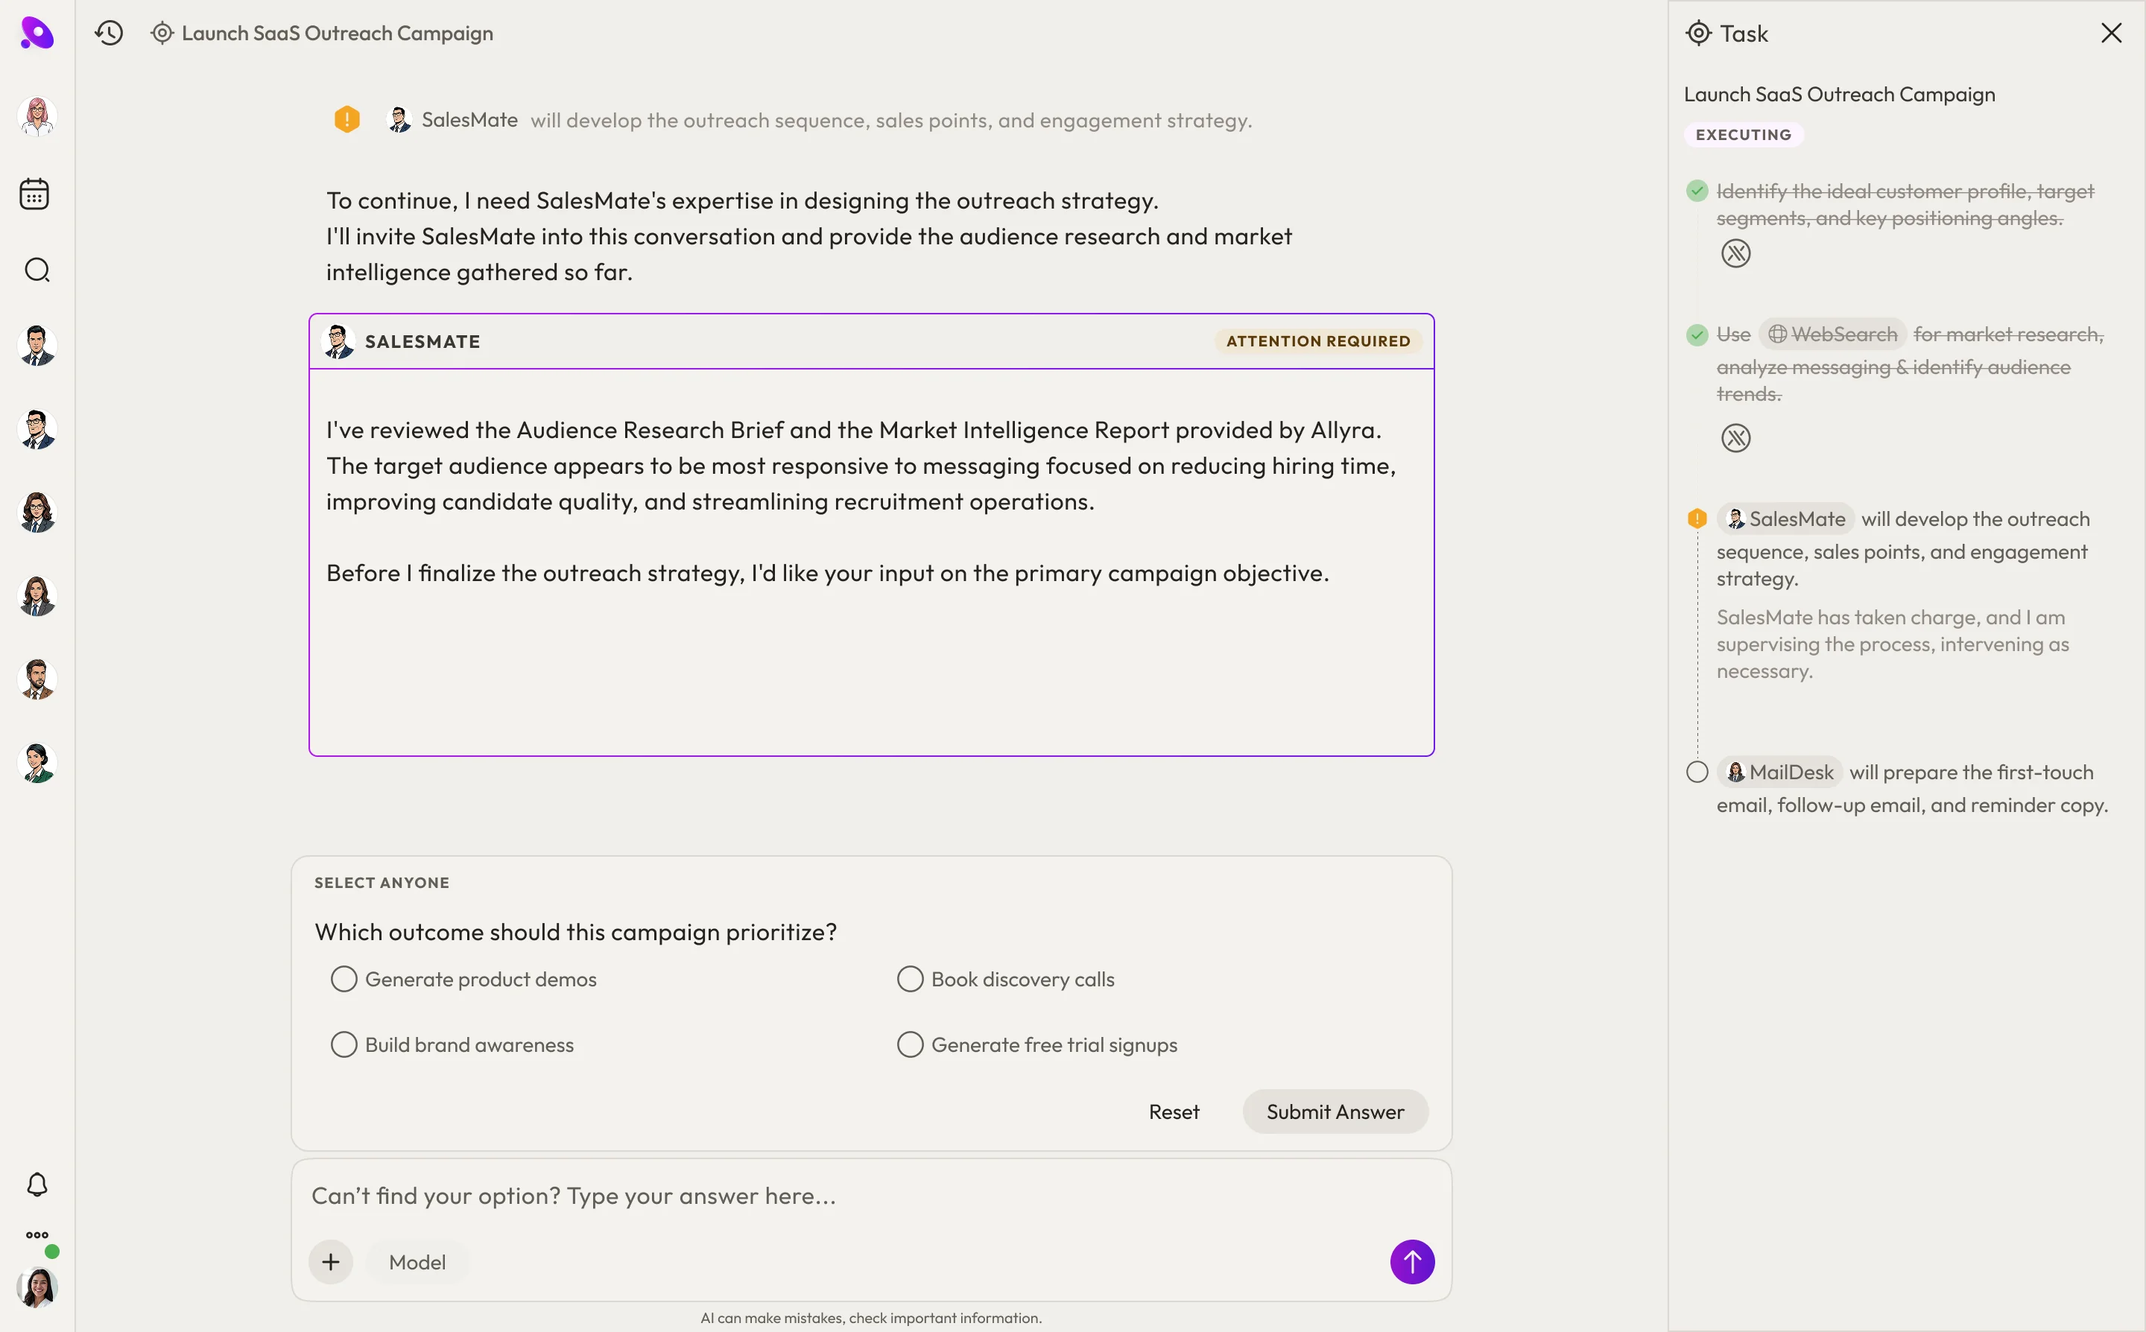
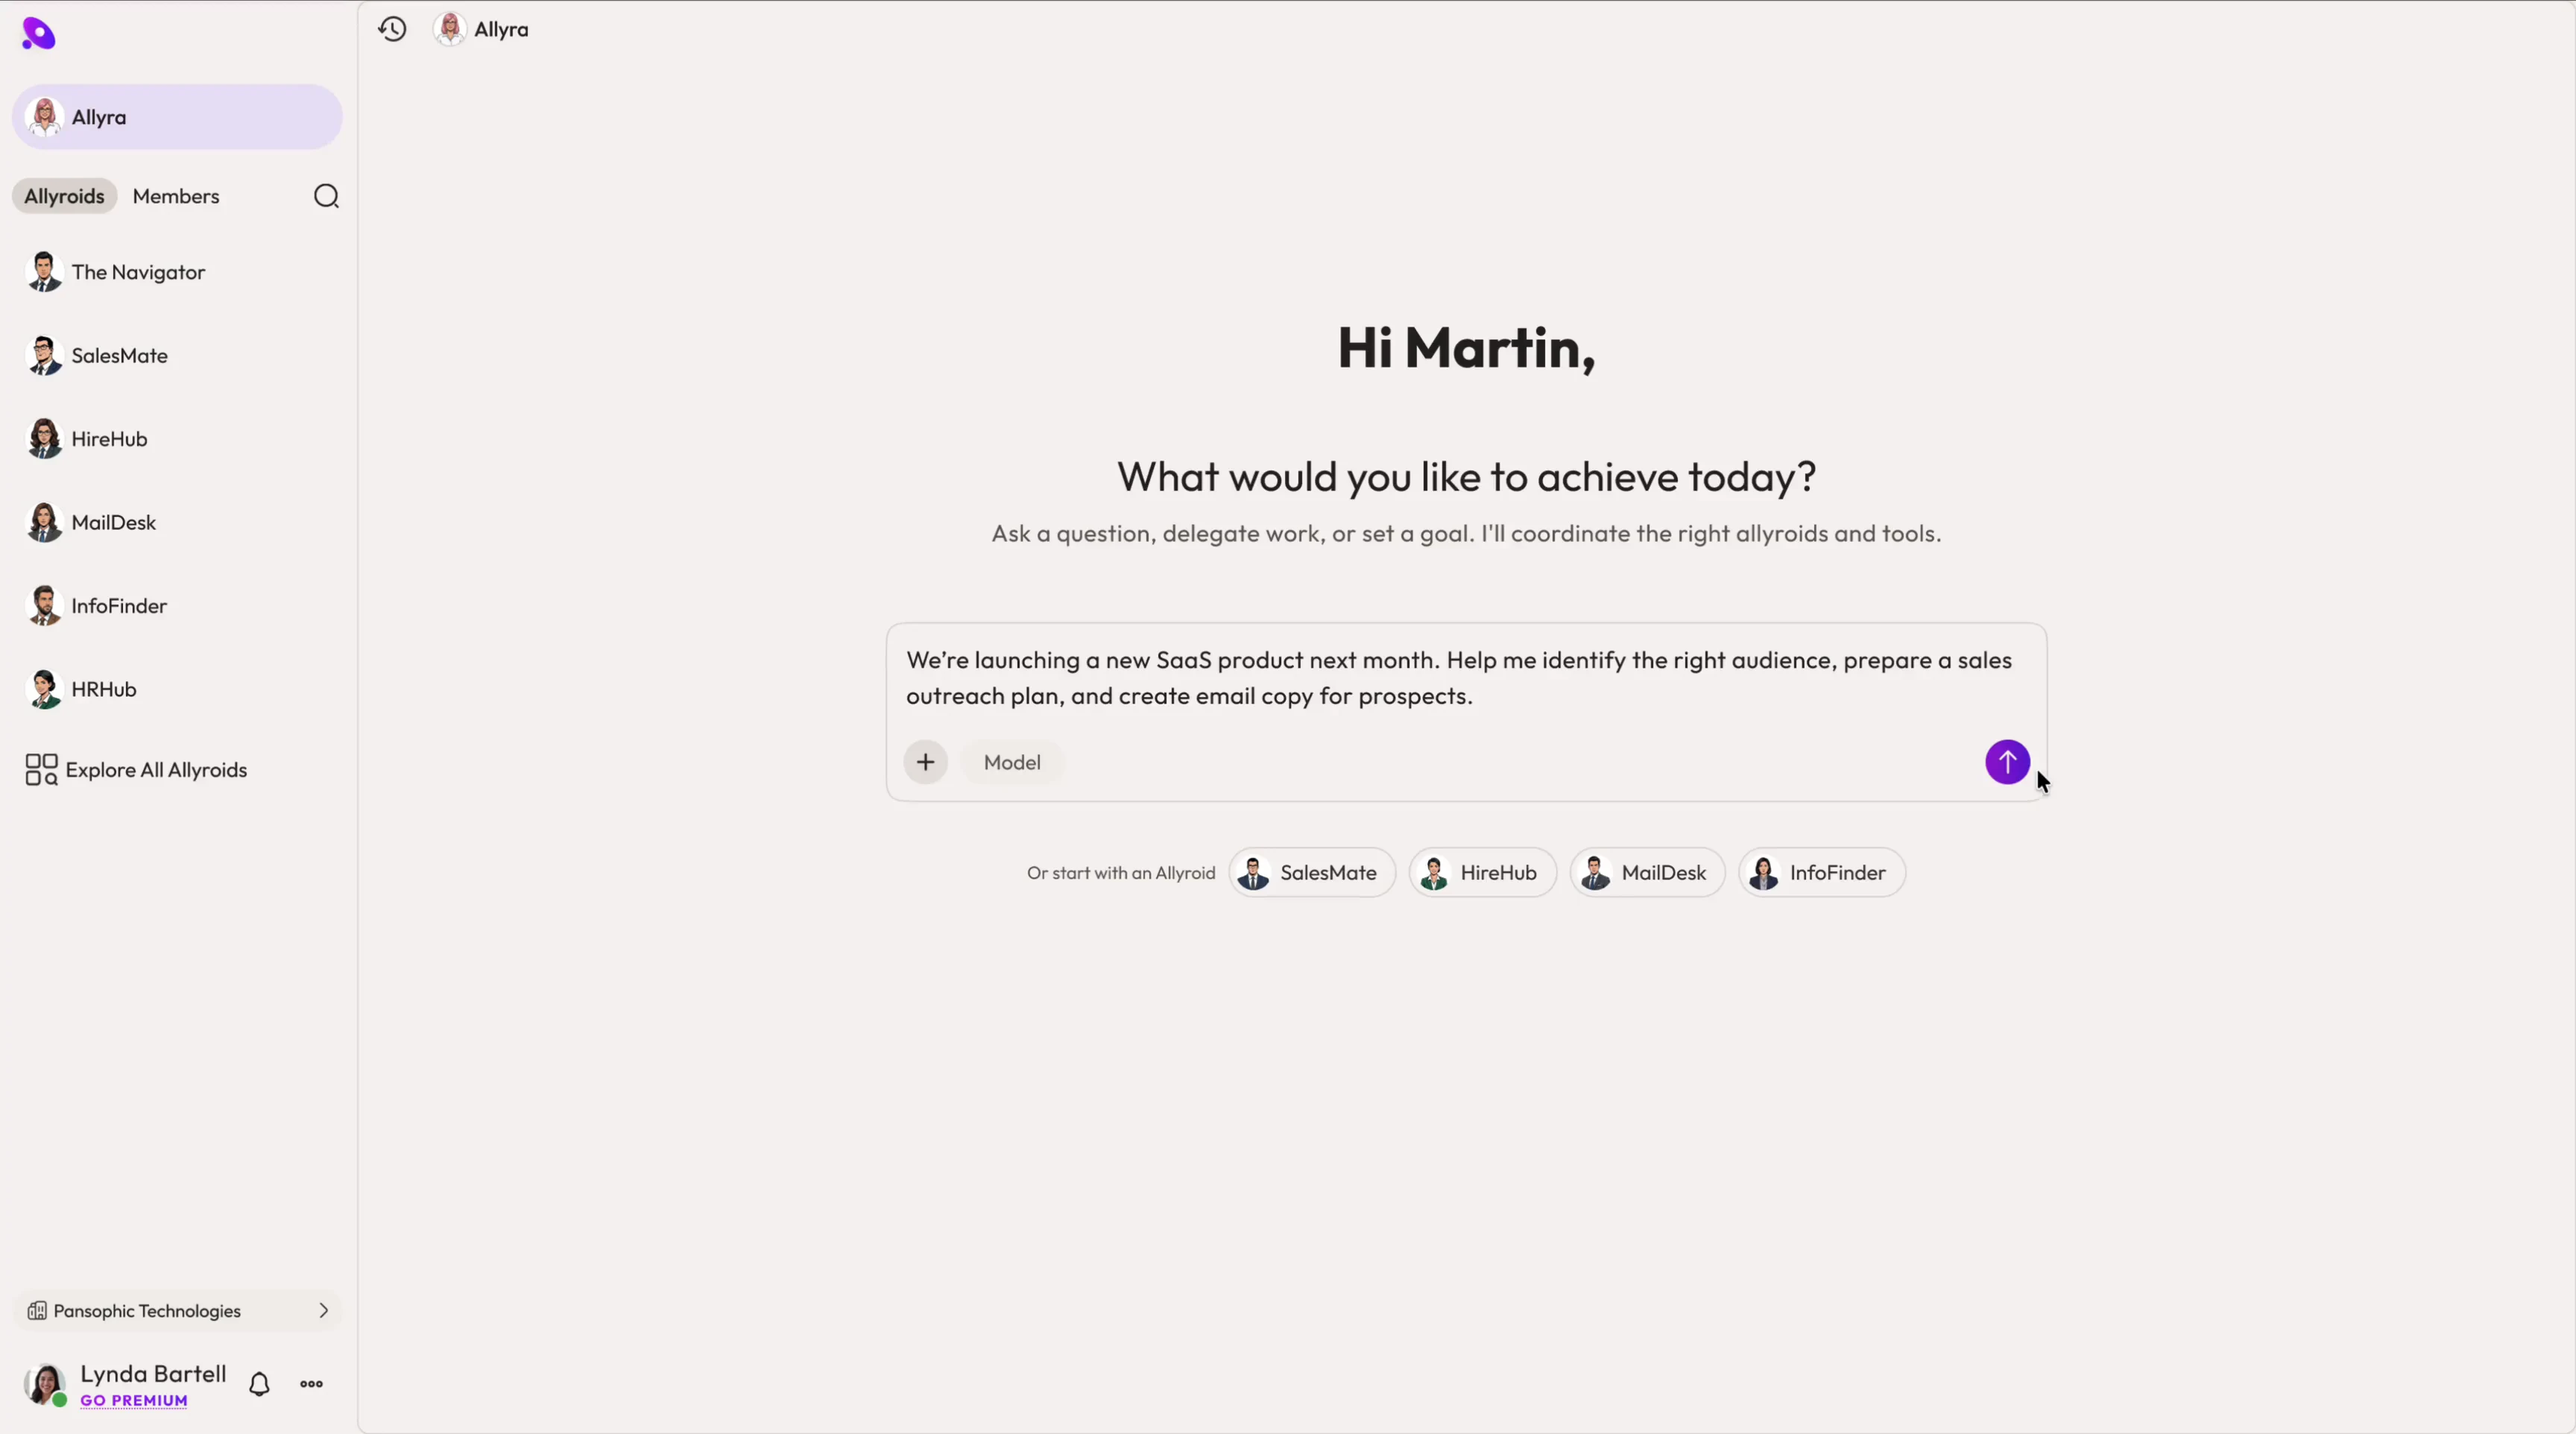
fix: align decision video aspect ratios to prevent clipping and map oversight approval video to story 04

diff --git a/src/app/AllyraObservabilityStoryPage.tsx b/src/app/AllyraObservabilityStoryPage.tsx
@@ -5,8 +5,8 @@ import Footer from "@/components/Footer";
 import NextStoryBottomStrip from "@/components/NextStoryBottomStrip";
 import ScrollToTopButton from "@/components/ScrollToTopButton";
 import { playClickSound, playHoverTick } from "@/utils/soundEffects";
-import vidNxt02 from "@/imports/nxt02.mp4";
-import imgNxt02 from "@/imports/nxt02.webp";
+import vidNxt04 from "@/imports/nxt04.mp4";
+import imgNxt04 from "@/imports/nxt04.webp";
 
 interface StoryPageProps {
   onNavigate: (path: string) => void;
@@ -94,7 +94,7 @@ export default function AllyraObservabilityStoryPage({
   };
 
   const handleOpenFullscreen = () => {
-    window.dispatchEvent(new CustomEvent("open-full-screen-video", { detail: { src: vidNxt02 } }));
+    window.dispatchEvent(new CustomEvent("open-full-screen-video", { detail: { src: vidNxt04 } }));
   };
 
   return (
@@ -199,17 +199,17 @@ export default function AllyraObservabilityStoryPage({
             >
               <div
                 className="relative w-full cursor-pointer overflow-hidden"
-                style={{ aspectRatio: "2880 / 1788" }}
+                style={{ aspectRatio: "3456 / 1924" }}
                 onClick={handleOpenFullscreen}
               >
                 <video
                   ref={videoRef}
-                  src={vidNxt02}
-                  poster={imgNxt02}
+                  src={vidNxt04}
+                  poster={imgNxt04}
                   loop
                   muted
                   playsInline
-                  className="w-full h-full object-cover block"
+                  className="w-full h-full object-contain block"
                 />
 
                 {/* Video Play/Pause & Full-Screen Action Overlay */}

diff --git a/src/app/AllyraAutonomyStoryPage.tsx b/src/app/AllyraAutonomyStoryPage.tsx
@@ -5,8 +5,8 @@ import Footer from "@/components/Footer";
 import NextStoryBottomStrip from "@/components/NextStoryBottomStrip";
 import ScrollToTopButton from "@/components/ScrollToTopButton";
 import { playClickSound, playHoverTick } from "@/utils/soundEffects";
-import vidNxt04 from "@/imports/nxt04.mp4";
-import imgNxt04 from "@/imports/nxt04.webp";
+import vidNxt02 from "@/imports/nxt02.mp4";
+import imgNxt02 from "@/imports/nxt02.webp";
 
 interface StoryPageProps {
   onNavigate: (path: string) => void;
@@ -94,7 +94,7 @@ export default function AllyraAutonomyStoryPage({
   };
 
   const handleOpenFullscreen = () => {
-    window.dispatchEvent(new CustomEvent("open-full-screen-video", { detail: { src: vidNxt04 } }));
+    window.dispatchEvent(new CustomEvent("open-full-screen-video", { detail: { src: vidNxt02 } }));
   };
 
   return (
@@ -199,17 +199,17 @@ export default function AllyraAutonomyStoryPage({
             >
               <div
                 className="relative w-full cursor-pointer overflow-hidden"
-                style={{ aspectRatio: "2880 / 1788" }}
+                style={{ aspectRatio: "3456 / 1924" }}
                 onClick={handleOpenFullscreen}
               >
                 <video
                   ref={videoRef}
-                  src={vidNxt04}
-                  poster={imgNxt04}
+                  src={vidNxt02}
+                  poster={imgNxt02}
                   loop
                   muted
                   playsInline
-                  className="w-full h-full object-cover block"
+                  className="w-full h-full object-contain block"
                 />
 
                 {/* Video Play/Pause & Full-Screen Action Overlay */}

diff --git a/src/app/AllyraWorkspaceStoryPage.tsx b/src/app/AllyraWorkspaceStoryPage.tsx
@@ -199,7 +199,7 @@ export default function AllyraWorkspaceStoryPage({
             >
               <div
                 className="relative w-full cursor-pointer overflow-hidden"
-                style={{ aspectRatio: "2880 / 1788" }}
+                style={{ aspectRatio: "3456 / 1924" }}
                 onClick={handleOpenFullscreen}
               >
                 <video
@@ -209,7 +209,7 @@ export default function AllyraWorkspaceStoryPage({
                   loop
                   muted
                   playsInline
-                  className="w-full h-full object-cover block"
+                  className="w-full h-full object-contain block"
                 />
 
                 {/* Video Play/Pause & Full-Screen Action Overlay */}

diff --git a/src/app/AllyraOutcomeStoryPage.tsx b/src/app/AllyraOutcomeStoryPage.tsx
@@ -199,7 +199,7 @@ export default function AllyraOutcomeStoryPage({
             >
               <div
                 className="relative w-full cursor-pointer overflow-hidden"
-                style={{ aspectRatio: "2880 / 1788" }}
+                style={{ aspectRatio: "3456 / 1924" }}
                 onClick={handleOpenFullscreen}
               >
                 <video
@@ -209,7 +209,7 @@ export default function AllyraOutcomeStoryPage({
                   loop
                   muted
                   playsInline
-                  className="w-full h-full object-cover block"
+                  className="w-full h-full object-contain block"
                 />
 
                 {/* Video Play/Pause & Full-Screen Action Overlay */}
